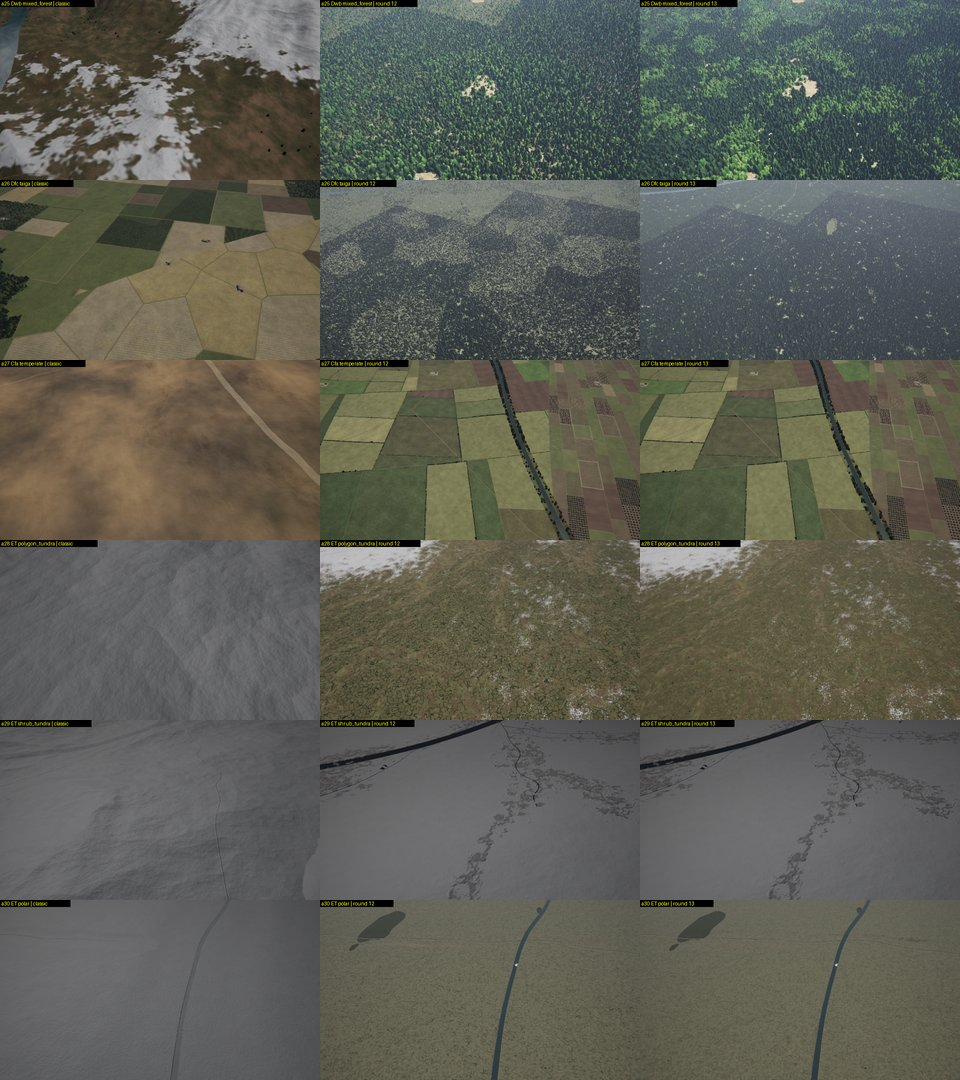
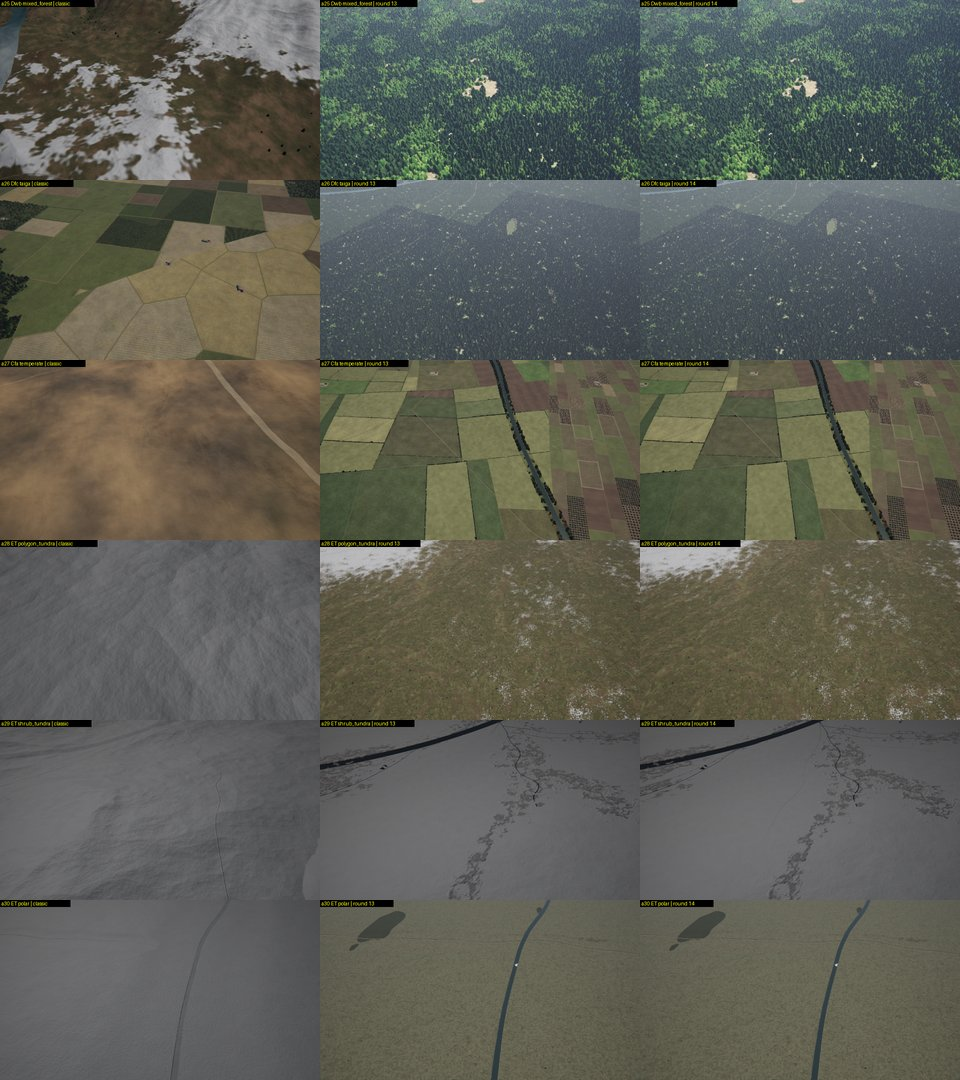
docs/next: round-14 sheets (v0.2.0 | round 13 | round 14) and audit sheets (classic | round 13 | round 14), stats, audit note

Changed region(s): [[0.3125, 0.0, 0.6562, 0.3361]]

diff --git a/docs/next/ab/next_quality/stats.md b/docs/next/ab/next_quality/stats.md
@@ -1,126 +1,126 @@
 | scene | run | saturation | hf energy | flat blocks | edge contrast |
 |---|---|---|---|---|---|
 | alpine_south | v0.2.0 | 0.195 | 6.80 | 0.530 | 36.1 |
-| alpine_south | round 12 | 0.206 | 19.37 | 0.002 | 12.5 |
 | alpine_south | round 13 | 0.208 | 17.38 | 0.002 | 12.6 |
+| alpine_south | round 14 | 0.210 | 17.21 | 0.002 | 12.4 |
 | alpine_south@type | v0.2.0 | 0.195 | 6.80 | 0.530 | 36.1 |
-| alpine_south@type | round 12 | 0.110 | 11.62 | 0.095 | 9.2 |
 | alpine_south@type | round 13 | 0.110 | 11.60 | 0.095 | 9.3 |
+| alpine_south@type | round 14 | 0.110 | 11.60 | 0.095 | 9.3 |
 | alpine_valley | v0.2.0 | 0.020 | 3.23 | 0.175 | 7.9 |
-| alpine_valley | round 12 | 0.288 | 13.45 | 0.006 | 18.4 |
 | alpine_valley | round 13 | 0.291 | 11.55 | 0.006 | 17.0 |
+| alpine_valley | round 14 | 0.291 | 11.54 | 0.006 | 17.0 |
 | alpine_valley@type | v0.2.0 | 0.020 | 3.23 | 0.175 | 7.9 |
-| alpine_valley@type | round 12 | 0.027 | 4.56 | 0.049 | 4.2 |
 | alpine_valley@type | round 13 | 0.027 | 4.53 | 0.050 | 4.2 |
+| alpine_valley@type | round 14 | 0.027 | 4.53 | 0.050 | 4.2 |
 | bank | v0.2.0 | 0.244 | 9.45 | 0.337 | 25.9 |
-| bank | round 12 | 0.328 | 2.81 | 0.830 | 2.9 |
 | bank | round 13 | 0.328 | 2.81 | 0.830 | 2.9 |
+| bank | round 14 | 0.328 | 2.81 | 0.830 | 2.9 |
 | bank@type | v0.2.0 | 0.244 | 9.45 | 0.337 | 25.9 |
-| bank@type | round 12 | 0.298 | 6.22 | 0.572 | 19.5 |
 | bank@type | round 13 | 0.299 | 5.90 | 0.570 | 18.5 |
+| bank@type | round 14 | 0.299 | 5.90 | 0.570 | 18.5 |
 | boreal | v0.2.0 | 0.129 | 17.89 | 0.000 | 5.0 |
-| boreal | round 12 | 0.202 | 31.46 | 0.002 | 6.7 |
 | boreal | round 13 | 0.223 | 21.09 | 0.006 | 8.0 |
+| boreal | round 14 | 0.223 | 21.09 | 0.006 | 8.0 |
 | boreal@type | v0.2.0 | 0.129 | 17.89 | 0.000 | 5.0 |
-| boreal@type | round 12 | 0.202 | 37.69 | 0.004 | 5.8 |
 | boreal@type | round 13 | 0.224 | 32.27 | 0.004 | 6.9 |
+| boreal@type | round 14 | 0.224 | 32.26 | 0.004 | 6.9 |
 | braided | v0.2.0 | 0.212 | 32.29 | 0.122 | 6.7 |
-| braided | round 12 | 0.127 | 9.91 | 0.042 | 6.0 |
 | braided | round 13 | 0.128 | 8.30 | 0.045 | 5.7 |
+| braided | round 14 | 0.128 | 8.30 | 0.045 | 5.7 |
 | canyon | v0.2.0 | 0.479 | 6.53 | 0.001 | 4.4 |
-| canyon | round 12 | 0.285 | 55.40 | 0.000 | 4.3 |
 | canyon | round 13 | 0.276 | 50.43 | 0.001 | 5.0 |
+| canyon | round 14 | 0.276 | 50.43 | 0.001 | 5.0 |
 | canyon@type | v0.2.0 | 0.479 | 6.53 | 0.001 | 4.4 |
-| canyon@type | round 12 | 0.500 | 14.09 | 0.000 | 5.0 |
 | canyon@type | round 13 | 0.499 | 14.10 | 0.000 | 5.0 |
+| canyon@type | round 14 | 0.499 | 14.10 | 0.000 | 5.0 |
 | coast | v0.2.0 | 0.298 | 8.90 | 0.270 | 24.5 |
-| coast | round 12 | 0.433 | 2.88 | 0.932 | 2.8 |
 | coast | round 13 | 0.433 | 2.88 | 0.932 | 2.8 |
+| coast | round 14 | 0.433 | 2.88 | 0.932 | 2.8 |
 | coast@type | v0.2.0 | 0.298 | 8.90 | 0.270 | 24.5 |
-| coast@type | round 12 | 0.310 | 10.78 | 0.469 | 38.5 |
 | coast@type | round 13 | 0.309 | 7.87 | 0.474 | 30.7 |
+| coast@type | round 14 | 0.309 | 7.89 | 0.474 | 30.8 |
 | desert_coast | v0.2.0 | 0.404 | 3.10 | 0.370 | 16.3 |
-| desert_coast | round 12 | 0.284 | 4.10 | 0.489 | 7.2 |
 | desert_coast | round 13 | 0.284 | 4.10 | 0.489 | 7.2 |
+| desert_coast | round 14 | 0.284 | 4.10 | 0.489 | 7.2 |
 | desert_coast@type | v0.2.0 | 0.404 | 3.10 | 0.370 | 16.3 |
-| desert_coast@type | round 12 | 0.332 | 8.47 | 0.018 | 12.7 |
 | desert_coast@type | round 13 | 0.325 | 8.12 | 0.024 | 14.3 |
+| desert_coast@type | round 14 | 0.325 | 7.97 | 0.048 | 15.1 |
 | dunes | v0.2.0 | 0.340 | 8.41 | 0.039 | 6.5 |
-| dunes | round 12 | 0.174 | 35.79 | 0.002 | 4.6 |
 | dunes | round 13 | 0.173 | 34.12 | 0.003 | 4.7 |
+| dunes | round 14 | 0.172 | 34.08 | 0.002 | 4.7 |
 | dunes@type | v0.2.0 | 0.340 | 8.41 | 0.039 | 6.5 |
-| dunes@type | round 12 | 0.389 | 7.15 | 0.000 | 3.9 |
 | dunes@type | round 13 | 0.389 | 7.15 | 0.000 | 3.9 |
+| dunes@type | round 14 | 0.389 | 7.15 | 0.000 | 3.9 |
 | dusk | v0.2.0 | 0.169 | 5.19 | 0.044 | 5.1 |
-| dusk | round 12 | 0.132 | 4.07 | 0.404 | 7.8 |
 | dusk | round 13 | 0.134 | 4.00 | 0.395 | 8.1 |
+| dusk | round 14 | 0.134 | 4.00 | 0.395 | 8.1 |
 | dusk@type | v0.2.0 | 0.169 | 5.19 | 0.044 | 5.1 |
-| dusk@type | round 12 | 0.185 | 5.49 | 0.114 | 7.6 |
 | dusk@type | round 13 | 0.184 | 5.58 | 0.108 | 7.9 |
+| dusk@type | round 14 | 0.184 | 5.73 | 0.084 | 6.7 |
 | farmland | v0.2.0 | 0.340 | 10.42 | 0.030 | 20.8 |
-| farmland | round 12 | 0.302 | 8.92 | 0.034 | 21.4 |
 | farmland | round 13 | 0.302 | 8.84 | 0.034 | 21.2 |
+| farmland | round 14 | 0.302 | 8.84 | 0.034 | 21.2 |
 | farmland@type | v0.2.0 | 0.340 | 10.42 | 0.030 | 20.8 |
-| farmland@type | round 12 | 0.285 | 8.95 | 0.036 | 21.8 |
 | farmland@type | round 13 | 0.286 | 8.93 | 0.037 | 22.0 |
+| farmland@type | round 14 | 0.286 | 8.93 | 0.037 | 22.0 |
 | forest | v0.2.0 | 0.202 | 17.92 | 0.002 | 4.2 |
-| forest | round 12 | 0.276 | 15.10 | 0.005 | 19.8 |
 | forest | round 13 | 0.283 | 13.29 | 0.005 | 20.7 |
+| forest | round 14 | 0.283 | 13.29 | 0.005 | 20.7 |
 | forest@type | v0.2.0 | 0.202 | 17.92 | 0.002 | 4.2 |
-| forest@type | round 12 | 0.202 | 20.45 | 0.010 | 10.2 |
 | forest@type | round 13 | 0.213 | 18.99 | 0.010 | 11.1 |
-| fp_forest | round 12 | 0.167 | 28.69 | 0.059 | 6.6 |
+| forest@type | round 14 | 0.213 | 19.03 | 0.010 | 11.2 |
 | fp_forest | round 13 | 0.197 | 12.34 | 0.058 | 10.6 |
-| fp_town | round 12 | 0.280 | 17.43 | 0.004 | 11.9 |
+| fp_forest | round 14 | 0.197 | 12.34 | 0.058 | 10.6 |
 | fp_town | round 13 | 0.280 | 17.42 | 0.004 | 11.9 |
+| fp_town | round 14 | 0.283 | 16.80 | 0.004 | 12.4 |
 | golden | v0.2.0 | 0.166 | 11.29 | 0.112 | 12.4 |
-| golden | round 12 | 0.155 | 14.02 | 0.014 | 8.8 |
 | golden | round 13 | 0.157 | 13.50 | 0.017 | 8.6 |
+| golden | round 14 | 0.157 | 13.50 | 0.017 | 8.6 |
 | golden@type | v0.2.0 | 0.166 | 11.29 | 0.112 | 12.4 |
-| golden@type | round 12 | 0.104 | 8.47 | 0.274 | 19.6 |
 | golden@type | round 13 | 0.104 | 8.43 | 0.274 | 19.6 |
+| golden@type | round 14 | 0.104 | 8.43 | 0.274 | 19.6 |
 | low | v0.2.0 | 0.414 | 5.37 | 0.111 | 3.9 |
-| low | round 12 | 0.359 | 4.66 | 0.007 | 8.2 |
 | low | round 13 | 0.359 | 4.66 | 0.007 | 8.2 |
+| low | round 14 | 0.359 | 4.66 | 0.007 | 8.2 |
 | mountains | v0.2.0 | 0.098 | 14.87 | 0.035 | 4.7 |
-| mountains | round 12 | 0.246 | 20.32 | 0.000 | 13.8 |
 | mountains | round 13 | 0.258 | 18.64 | 0.005 | 15.3 |
+| mountains | round 14 | 0.258 | 18.64 | 0.005 | 15.3 |
 | mountains@type | v0.2.0 | 0.098 | 14.87 | 0.035 | 4.7 |
-| mountains@type | round 12 | 0.126 | 20.09 | 0.126 | 14.3 |
 | mountains@type | round 13 | 0.125 | 18.23 | 0.155 | 13.7 |
+| mountains@type | round 14 | 0.125 | 18.23 | 0.155 | 13.7 |
 | night | v0.2.0 | 0.450 | 27.41 | 0.013 | 7.0 |
-| night | round 12 | 0.802 | 22.28 | 0.000 | 2.9 |
 | night | round 13 | 0.802 | 22.31 | 0.000 | 2.9 |
+| night | round 14 | 0.802 | 22.30 | 0.000 | 2.9 |
 | night@type | v0.2.0 | 0.450 | 27.41 | 0.013 | 7.0 |
-| night@type | round 12 | 0.506 | 23.38 | 0.000 | 6.6 |
 | night@type | round 13 | 0.358 | 22.68 | 0.000 | 6.9 |
+| night@type | round 14 | 0.390 | 23.80 | 0.000 | 8.0 |
 | river | v0.2.0 | 0.279 | 18.77 | 0.088 | 11.9 |
-| river | round 12 | 0.273 | 13.66 | 0.108 | 18.3 |
 | river | round 13 | 0.276 | 13.34 | 0.108 | 18.8 |
+| river | round 14 | 0.278 | 13.34 | 0.108 | 18.8 |
 | taiga_river | v0.2.0 | 0.165 | 21.84 | 0.041 | 5.1 |
-| taiga_river | round 12 | 0.163 | 31.67 | 0.033 | 6.2 |
 | taiga_river | round 13 | 0.179 | 27.60 | 0.034 | 7.6 |
+| taiga_river | round 14 | 0.179 | 27.64 | 0.034 | 7.6 |
 | taiga_river@type | v0.2.0 | 0.165 | 21.84 | 0.041 | 5.1 |
-| taiga_river@type | round 12 | 0.175 | 28.97 | 0.000 | 5.6 |
 | taiga_river@type | round 13 | 0.197 | 23.10 | 0.000 | 6.4 |
+| taiga_river@type | round 14 | 0.197 | 23.10 | 0.000 | 6.4 |
 | terminal_lake | v0.2.0 | 0.287 | 4.57 | 0.498 | 37.8 |
-| terminal_lake | round 12 | 0.254 | 6.03 | 0.481 | 23.2 |
 | terminal_lake | round 13 | 0.254 | 6.00 | 0.482 | 23.1 |
+| terminal_lake | round 14 | 0.254 | 5.99 | 0.482 | 23.1 |
 | town | v0.2.0 | 0.193 | 22.91 | 0.038 | 8.7 |
-| town | round 12 | 0.309 | 9.94 | 0.004 | 20.6 |
 | town | round 13 | 0.309 | 9.44 | 0.003 | 17.6 |
+| town | round 14 | 0.309 | 9.44 | 0.003 | 17.6 |
 | town@type | v0.2.0 | 0.193 | 22.91 | 0.038 | 8.7 |
-| town@type | round 12 | 0.207 | 33.28 | 0.033 | 19.9 |
 | town@type | round 13 | 0.207 | 33.36 | 0.033 | 19.9 |
+| town@type | round 14 | 0.223 | 35.15 | 0.014 | 16.1 |
 | tropics | v0.2.0 | 0.253 | 22.99 | 0.190 | 10.2 |
-| tropics | round 12 | 0.226 | 27.15 | 0.011 | 8.0 |
 | tropics | round 13 | 0.229 | 25.58 | 0.011 | 8.4 |
+| tropics | round 14 | 0.226 | 24.87 | 0.011 | 7.8 |
 | tropics@type | v0.2.0 | 0.253 | 22.99 | 0.190 | 10.2 |
-| tropics@type | round 12 | 0.265 | 21.11 | 0.237 | 25.0 |
 | tropics@type | round 13 | 0.266 | 20.94 | 0.237 | 25.0 |
+| tropics@type | round 14 | 0.264 | 20.76 | 0.236 | 24.0 |
 | volcano | v0.2.0 | 0.205 | 23.29 | 0.002 | 5.9 |
-| volcano | round 12 | 0.161 | 25.62 | 0.002 | 5.7 |
 | volcano | round 13 | 0.172 | 24.43 | 0.003 | 6.1 |
+| volcano | round 14 | 0.171 | 24.34 | 0.002 | 6.1 |
 | volcano@type | v0.2.0 | 0.205 | 23.29 | 0.002 | 5.9 |
-| volcano@type | round 12 | 0.255 | 26.93 | 0.000 | 5.2 |
 | volcano@type | round 13 | 0.259 | 26.87 | 0.000 | 5.2 |
+| volcano@type | round 14 | 0.259 | 26.69 | 0.000 | 5.2 |

diff --git a/docs/next/ab/next_quality/audit_stats.md b/docs/next/ab/next_quality/audit_stats.md
@@ -1,92 +1,92 @@
 | scene | run | saturation | hf energy | flat blocks | edge contrast |
 |---|---|---|---|---|---|
 | a01 | classic | 0.369 | 12.16 | 0.014 | 20.3 |
-| a01 | round 12 | 0.323 | 40.69 | 0.004 | 8.8 |
 | a01 | round 13 | 0.329 | 32.70 | 0.022 | 12.4 |
+| a01 | round 14 | 0.329 | 32.68 | 0.022 | 12.4 |
 | a02 | classic | 0.033 | 5.24 | 0.070 | 4.1 |
-| a02 | round 12 | 0.288 | 15.16 | 0.000 | 15.8 |
 | a02 | round 13 | 0.292 | 8.75 | 0.001 | 9.1 |
+| a02 | round 14 | 0.292 | 8.75 | 0.001 | 9.1 |
 | a03 | classic | 0.432 | 18.30 | 0.040 | 23.5 |
-| a03 | round 12 | 0.308 | 9.40 | 0.125 | 26.7 |
 | a03 | round 13 | 0.304 | 7.69 | 0.122 | 20.0 |
+| a03 | round 14 | 0.304 | 7.69 | 0.122 | 20.0 |
 | a04 | classic | 0.418 | 13.70 | 0.212 | 38.2 |
-| a04 | round 12 | 0.245 | 23.78 | 0.172 | 9.0 |
 | a04 | round 13 | 0.245 | 23.02 | 0.172 | 9.3 |
+| a04 | round 14 | 0.244 | 22.99 | 0.172 | 9.4 |
 | a05 | classic | 0.326 | 11.52 | 0.015 | 17.5 |
-| a05 | round 12 | 0.280 | 13.87 | 0.007 | 17.7 |
 | a05 | round 13 | 0.280 | 13.89 | 0.007 | 17.8 |
+| a05 | round 14 | 0.280 | 13.89 | 0.007 | 17.8 |
 | a06 | classic | 0.419 | 24.48 | 0.008 | 15.8 |
-| a06 | round 12 | 0.342 | 15.16 | 0.007 | 19.7 |
 | a06 | round 13 | 0.326 | 11.44 | 0.003 | 17.4 |
+| a06 | round 14 | 0.326 | 11.44 | 0.003 | 17.4 |
 | a07 | classic | 0.040 | 5.77 | 0.024 | 4.8 |
-| a07 | round 12 | 0.040 | 9.47 | 0.018 | 9.9 |
 | a07 | round 13 | 0.040 | 8.53 | 0.028 | 9.7 |
+| a07 | round 14 | 0.040 | 8.53 | 0.028 | 9.7 |
 | a08 | classic | 0.605 | 3.88 | 0.117 | 5.2 |
-| a08 | round 12 | 0.315 | 23.73 | 0.000 | 8.5 |
 | a08 | round 13 | 0.321 | 23.07 | 0.000 | 8.7 |
+| a08 | round 14 | 0.321 | 22.98 | 0.000 | 8.6 |
 | a09 | classic | 0.424 | 17.74 | 0.058 | 21.0 |
-| a09 | round 12 | 0.226 | 30.39 | 0.002 | 11.8 |
 | a09 | round 13 | 0.240 | 23.21 | 0.008 | 17.1 |
+| a09 | round 14 | 0.240 | 23.21 | 0.008 | 17.1 |
 | a10 | classic | 0.254 | 29.33 | 0.002 | 24.5 |
-| a10 | round 12 | 0.406 | 32.63 | 0.002 | 12.6 |
 | a10 | round 13 | 0.399 | 15.00 | 0.018 | 31.3 |
+| a10 | round 14 | 0.399 | 15.00 | 0.018 | 31.3 |
 | a11 | classic | 0.539 | 4.79 | 0.032 | 5.4 |
-| a11 | round 12 | 0.458 | 3.14 | 0.589 | 4.4 |
 | a11 | round 13 | 0.458 | 3.14 | 0.589 | 4.4 |
+| a11 | round 14 | 0.458 | 3.14 | 0.589 | 4.4 |
 | a12 | classic | 0.384 | 20.77 | 0.000 | 17.7 |
-| a12 | round 12 | 0.277 | 14.75 | 0.013 | 6.9 |
 | a12 | round 13 | 0.277 | 14.73 | 0.014 | 6.9 |
+| a12 | round 14 | 0.286 | 15.84 | 0.000 | 6.4 |
 | a13 | classic | 0.304 | 9.74 | 0.027 | 15.3 |
-| a13 | round 12 | 0.348 | 16.28 | 0.006 | 12.3 |
 | a13 | round 13 | 0.346 | 7.25 | 0.087 | 12.1 |
+| a13 | round 14 | 0.346 | 7.25 | 0.087 | 12.1 |
 | a14 | classic | 0.472 | 3.56 | 0.378 | 10.8 |
-| a14 | round 12 | 0.445 | 15.64 | 0.004 | 9.4 |
 | a14 | round 13 | 0.455 | 4.80 | 0.321 | 15.6 |
+| a14 | round 14 | 0.455 | 4.83 | 0.312 | 15.5 |
 | a15 | classic | 0.190 | 20.39 | 0.000 | 4.6 |
-| a15 | round 12 | 0.176 | 26.84 | 0.000 | 5.9 |
 | a15 | round 13 | 0.193 | 23.37 | 0.000 | 6.6 |
+| a15 | round 14 | 0.193 | 23.37 | 0.000 | 6.6 |
 | a16 | classic | 0.388 | 27.67 | 0.012 | 16.9 |
-| a16 | round 12 | 0.355 | 26.84 | 0.000 | 3.5 |
 | a16 | round 13 | 0.340 | 15.58 | 0.000 | 4.2 |
+| a16 | round 14 | 0.340 | 15.60 | 0.000 | 4.2 |
 | a17 | classic | 0.051 | 9.04 | 0.002 | 4.7 |
-| a17 | round 12 | 0.287 | 32.16 | 0.011 | 28.0 |
 | a17 | round 13 | 0.301 | 4.12 | 0.252 | 6.0 |
+| a17 | round 14 | 0.301 | 4.12 | 0.252 | 6.0 |
 | a18 | classic | 0.283 | 3.73 | 0.038 | 3.1 |
-| a18 | round 12 | 0.375 | 9.24 | 0.011 | 21.5 |
 | a18 | round 13 | 0.380 | 5.42 | 0.021 | 10.4 |
+| a18 | round 14 | 0.380 | 5.42 | 0.021 | 10.4 |
 | a19 | classic | 0.291 | 20.84 | 0.005 | 17.5 |
-| a19 | round 12 | 0.332 | 18.72 | 0.002 | 18.2 |
 | a19 | round 13 | 0.320 | 16.86 | 0.003 | 18.9 |
+| a19 | round 14 | 0.320 | 16.84 | 0.003 | 18.9 |
 | a20 | classic | 0.345 | 5.46 | 0.040 | 9.6 |
-| a20 | round 12 | 0.313 | 36.24 | 0.000 | 12.8 |
 | a20 | round 13 | 0.316 | 21.70 | 0.001 | 19.2 |
+| a20 | round 14 | 0.316 | 21.70 | 0.001 | 19.2 |
 | a21 | classic | 0.318 | 4.71 | 0.006 | 3.9 |
-| a21 | round 12 | 0.374 | 25.26 | 0.000 | 9.4 |
 | a21 | round 13 | 0.384 | 6.34 | 0.044 | 16.0 |
+| a21 | round 14 | 0.384 | 6.34 | 0.044 | 15.9 |
 | a22 | classic | 0.319 | 32.76 | 0.003 | 18.5 |
-| a22 | round 12 | 0.309 | 29.36 | 0.012 | 4.3 |
 | a22 | round 13 | 0.320 | 27.27 | 0.012 | 4.3 |
+| a22 | round 14 | 0.322 | 26.27 | 0.024 | 4.5 |
 | a23 | classic | 0.380 | 13.38 | 0.035 | 24.5 |
-| a23 | round 12 | 0.398 | 9.13 | 0.017 | 19.8 |
 | a23 | round 13 | 0.398 | 7.34 | 0.020 | 15.4 |
+| a23 | round 14 | 0.398 | 7.34 | 0.020 | 15.4 |
 | a24 | classic | 0.279 | 11.34 | 0.005 | 13.8 |
-| a24 | round 12 | 0.363 | 20.95 | 0.000 | 11.4 |
 | a24 | round 13 | 0.373 | 8.55 | 0.015 | 7.5 |
+| a24 | round 14 | 0.373 | 8.55 | 0.015 | 7.5 |
 | a25 | classic | 0.225 | 6.78 | 0.019 | 12.5 |
-| a25 | round 12 | 0.269 | 34.81 | 0.000 | 5.0 |
 | a25 | round 13 | 0.289 | 29.92 | 0.000 | 5.2 |
+| a25 | round 14 | 0.289 | 29.92 | 0.000 | 5.2 |
 | a26 | classic | 0.310 | 7.06 | 0.016 | 8.9 |
-| a26 | round 12 | 0.144 | 45.88 | 0.000 | 4.4 |
 | a26 | round 13 | 0.178 | 17.07 | 0.000 | 7.7 |
+| a26 | round 14 | 0.178 | 17.07 | 0.000 | 7.7 |
 | a27 | classic | 0.357 | 3.36 | 0.222 | 3.1 |
-| a27 | round 12 | 0.285 | 9.31 | 0.042 | 19.6 |
 | a27 | round 13 | 0.285 | 9.21 | 0.042 | 19.2 |
+| a27 | round 14 | 0.285 | 9.21 | 0.042 | 19.2 |
 | a28 | classic | 0.033 | 4.69 | 0.005 | 3.1 |
-| a28 | round 12 | 0.293 | 19.85 | 0.000 | 4.6 |
 | a28 | round 13 | 0.305 | 12.53 | 0.000 | 6.8 |
+| a28 | round 14 | 0.305 | 12.53 | 0.000 | 6.8 |
 | a29 | classic | 0.028 | 4.82 | 0.186 | 4.4 |
-| a29 | round 12 | 0.024 | 5.03 | 0.632 | 11.8 |
 | a29 | round 13 | 0.024 | 5.02 | 0.633 | 11.8 |
+| a29 | round 14 | 0.024 | 5.02 | 0.628 | 11.8 |
 | a30 | classic | 0.029 | 4.76 | 0.248 | 3.6 |
-| a30 | round 12 | 0.188 | 9.80 | 0.002 | 4.5 |
 | a30 | round 13 | 0.191 | 7.80 | 0.002 | 3.8 |
+| a30 | round 14 | 0.191 | 7.80 | 0.002 | 3.8 |

diff --git a/docs/next/README.md b/docs/next/README.md
@@ -205,7 +205,7 @@ fields at 53° N, and a hard, circular biome border in the oblique view (one of 
 `scripts/ab_v020/<scene>.yaml` are the same scenes with `generator: next`, and
 `<scene>@type.yaml` the same camera at a place of the same landscape type in next's world.
 [`ab/next_quality/`](ab/next_quality/) has the sheets of the latest comparison (columns:
-v0.2.0, round 12, round 13) and their image statistics (`stats.md`). Scenes whose pose shows
+v0.2.0, round 13, round 14) and their image statistics (`stats.md`). Scenes whose pose shows
 another landscape in next's world (sea at `bank` and `coast`, farmland at `night` and `dusk`)
 have an `@type` twin at a place of v0.2.0's landscape; `probe_px towns LAT LON R_KM` lists the
 settlements near a point to find one.
@@ -217,7 +217,7 @@ hand picking) with the nearest land point of the classic world (the same point a
 `scripts/ab_v020.py audit` renders them with the `farmland` still's camera (700 m above the
 ground, 42° down, 640 × 360, the still's local solar time 10:41, June; December south of the
 equator) with either generator, and `sheet --audit` puts classic | next side by side
-([`ab/next_quality/audit*.jpg`](ab/next_quality/): classic, round 12, round 13; `audit_stats.md`).
+([`ab/next_quality/audit*.jpg`](ab/next_quality/): classic, round 13, round 14; `audit_stats.md`).
 In round 7, 6 of the 30 places looked clearly worse than classic's typical quality (13 in
 round 6), 5 of them cold (frozen lakes in snow-free forest, glacier stripes, snow nets over
 tundra), 6 more borderline (ecotone patchworks, autumn and burn colours, paddy terraces). In
@@ -246,7 +246,10 @@ groves and clumps, shrubs in the ground's texture; isolated dark dots 0.92× cla
 13.8, was 20.8, classic 12.1); the land has a macro tone over
 600 m – 1.5 km (soil moisture, vigour, drainage) on the ground and inside fields, and the night's
 lamps are less orange (part C of round 13; the tonal contrast of the like-for-like scenes moved
-little: it is set by what the scenes show).
+little: it is set by what the scenes show). Round 14 changed the audit only where it shows towns or terraced
+paddies (a12: terraces along the hillside, no parcel rectangles; a22: a different town outline):
+dots 0.92× classic's (12 places above twice, were 13), high-frequency energy 13.8 as before; no
+place is clearly worse than classic or than round 13.
 
 ```sh
 scripts/ab_v020.py audit --terrain target/release/terrain --generator classic --out /tmp/audit_c
